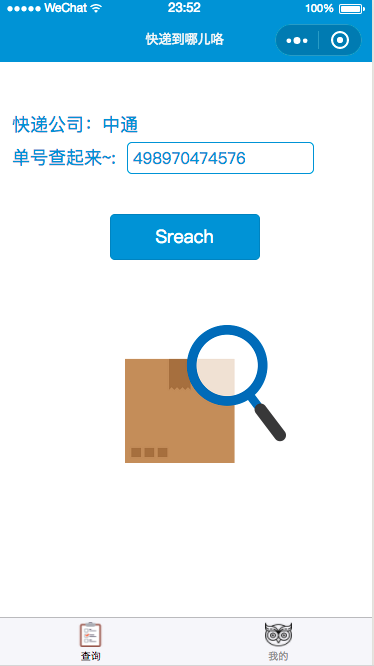
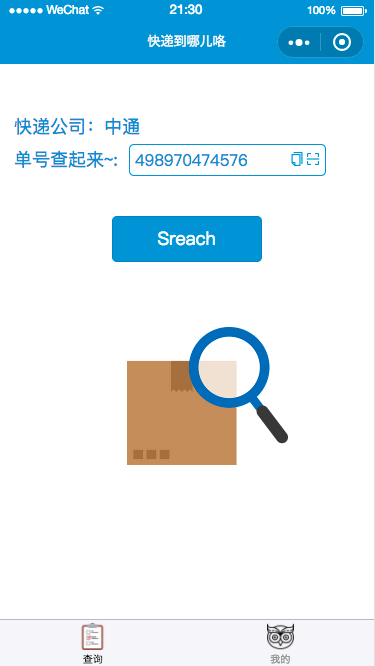
update readme

diff --git a/README.md b/README.md
@@ -34,8 +34,8 @@ todolist
 - 查询历史记录
 - Make Beautiful
 - 加引导
-- icommon font
-
+- icommon font √
+- 添加扫码/复制剪贴板 √
 
 
 Just for fun!
